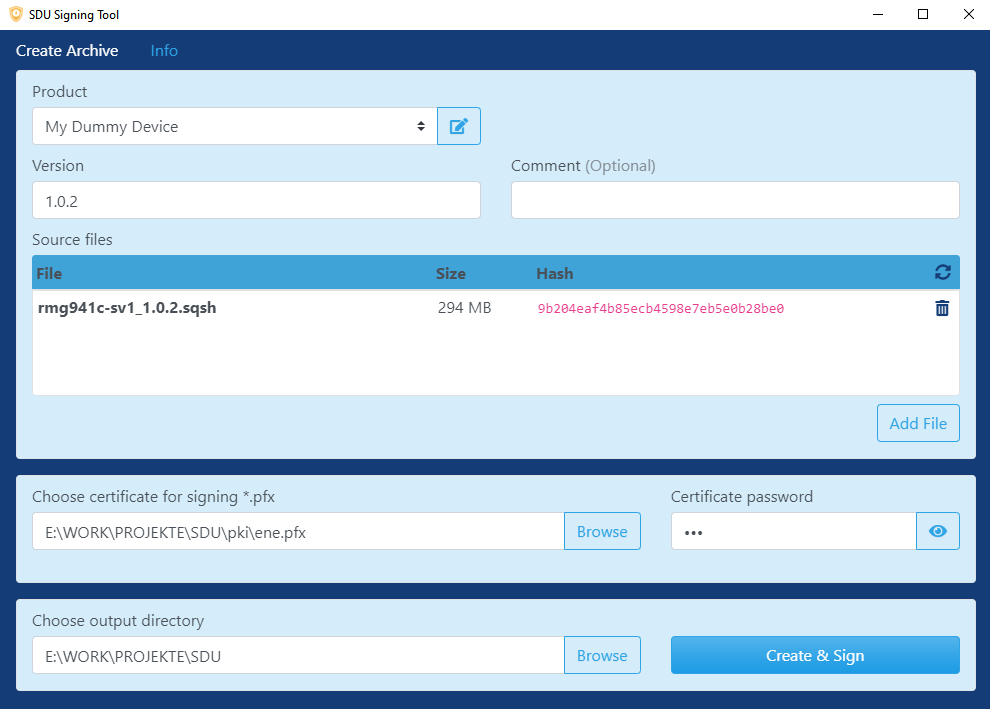
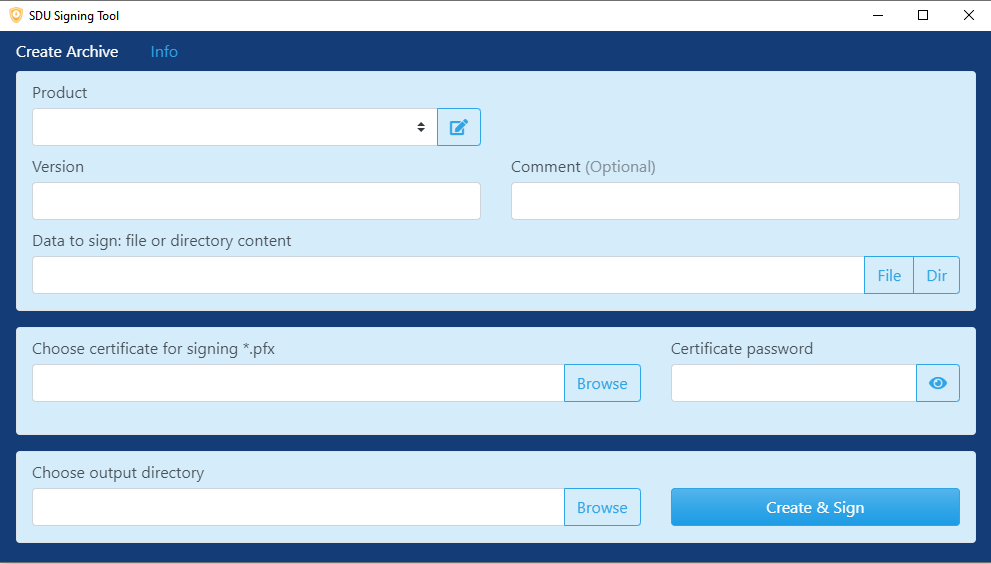
chore: bump to version 4.0.1

diff --git a/sdu-signing-tool.md b/sdu-signing-tool.md
@@ -4,7 +4,7 @@ Ist ein Windows Tool zum verpacken und signieren der Firmware zu einem SDU-Archi
 
 ## Benutzung
 ### Installation
-- Tool herunterladen und installieren. [SDU Signing Tool Setup 4.0.0.exe](https://hidrive.ionos.com/lnk/PCCMAfa5)
+- Tool herunterladen und installieren. [SDU Signing Tool Setup 4.0.1.exe](https://hidrive.ionos.com/lnk/U3ITfC9AL)
 - Die Anwendung `SDU Signing Tool` starten
 
 ### Konfiguration
@@ -16,5 +16,5 @@ Ist ein Windows Tool zum verpacken und signieren der Firmware zu einem SDU-Archi
 ### SDU-Archive erstellen
 - Produkt auswählen.
 - Version und optional ein Kommentar vergeben.
-- Firmware Datei in das Archive hinzufügen mit **Add File**.
+- Inhalt des SDU Archive hinzufügen mit **File** oder Inhalt eines Verzeichnisses mit Dateien mit **Dir**.
 - Archive erstellen und signieren mit **Create & Sign**.

diff --git a/sdu-maintainer-tool.md b/sdu-maintainer-tool.md
@@ -4,7 +4,7 @@ Ist ein Windows Tool zum hochladen der Software ([SDU-Archive](sdu-signing-tool.
 
 ## Benutzung
 ### Installation
-- Tool herunterladen und installieren. [SDU Management Tool Setup 4.0.0.exe](https://hidrive.ionos.com/lnk/VYiMgIBD)
+- Tool herunterladen und installieren. [SDU Management Tool Setup 4.0.1.exe](https://hidrive.ionos.com/lnk/STgNNX7qn)
 - Die Anwendung `SDU Management Tool` starten
 ### Konfiguration
 - Produktliste erstellen. Beispiel Datei mit einem Produkt:  
